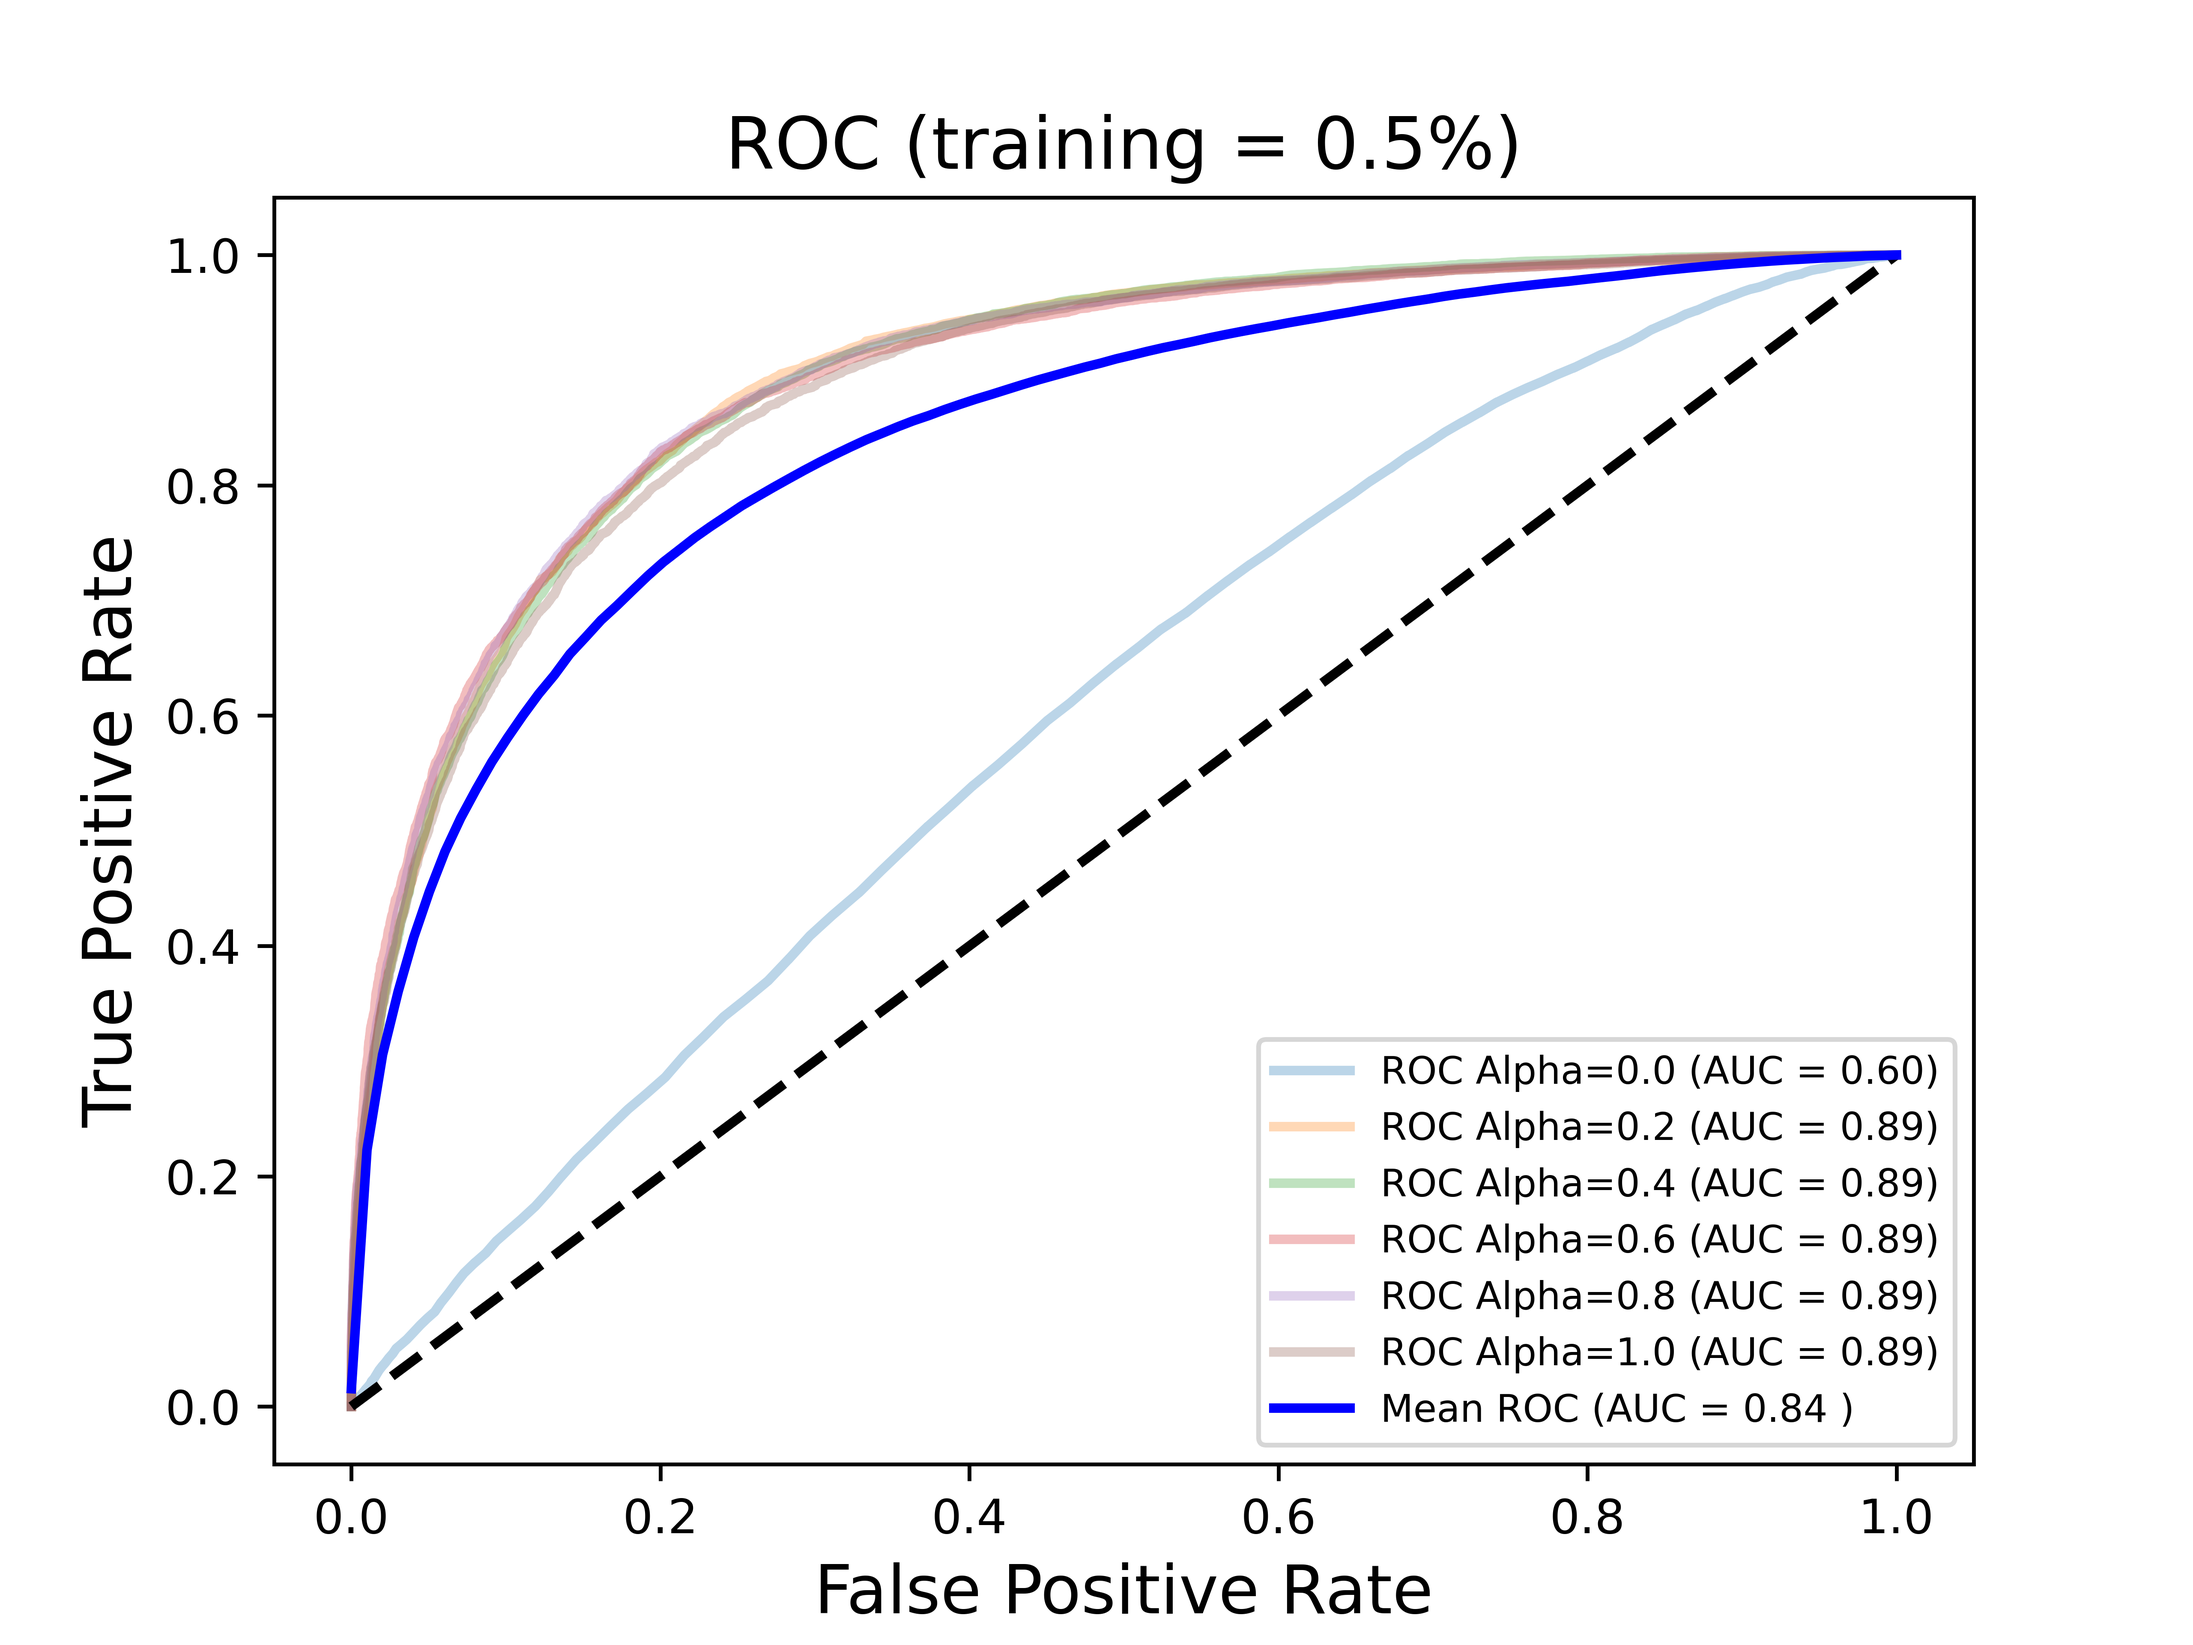
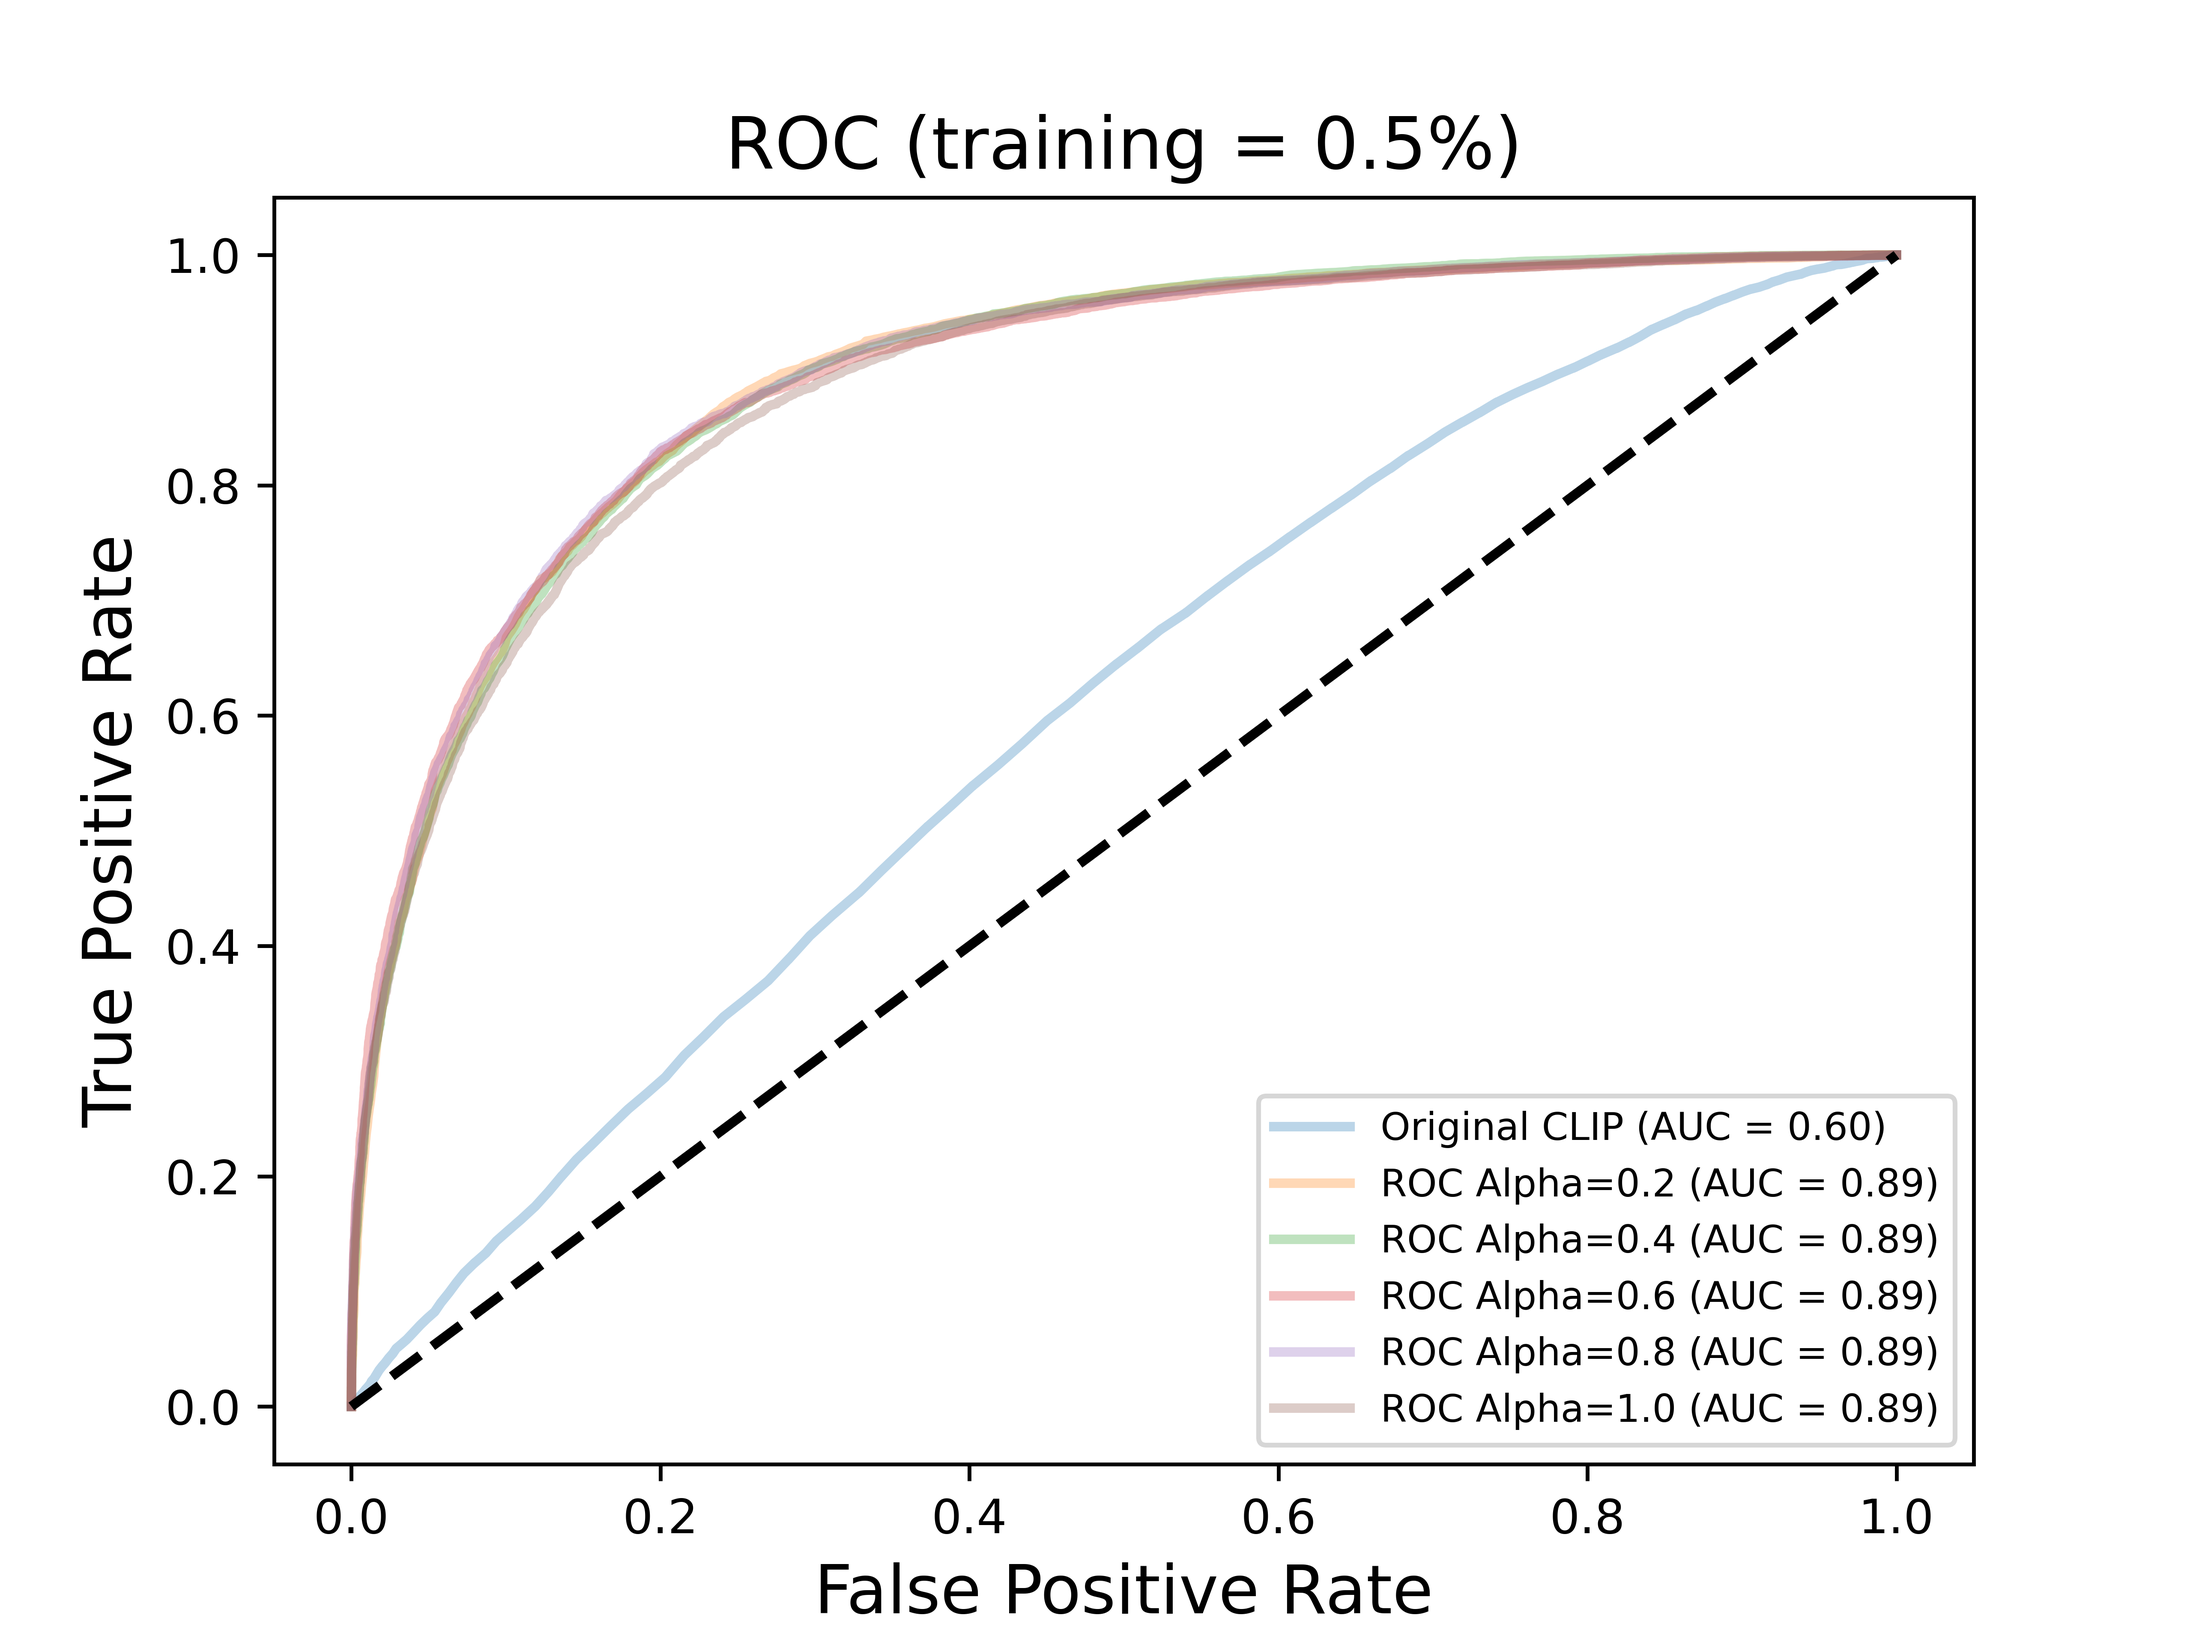
include roc_curve

diff --git a/Pcam/src/script/t_sne.py b/Pcam/src/script/t_sne.py
@@ -1,3 +1,4 @@
+from os.path import exists
 import sys
 sys.path.insert(0, '../AI-Pathology')
 import time
@@ -10,7 +11,57 @@ from torch.utils.data import DataLoader
 from Pcam.src.model.CustomCLIP import CustomCLIP
 from dataset.Pcam import Pcam
 from dataset.MHIST import MHIST
+from sklearn.manifold import TSNE
+import matplotlib
+matplotlib.use('Agg')
+import matplotlib.pyplot as plt
+import numpy as np
+import seaborn as sns
+import pandas as pd
+import random
+from torch.utils.data import DataLoader, SubsetRandomSampler
 
+import json
+
+def cal_train_index(train_dataset, percent_train):
+        """
+        calculate the distrubution of the training set as of percent of training set, and ratio of each class
+        now the ratio is 1:1, which is balanced
+        """
+        random.seed(1)
+
+        # check if the distribution file exists
+        if exists("Pcam/src/model/distribution.json"):
+            print("Distribution file exists")
+            with open("Pcam/src/model/distribution.json", "r") as f:
+                dict_from_json = json.load(f)
+                index_class = {0: dict_from_json["0"], 1: dict_from_json["1"]}
+        
+        # if not, calculate the distribution
+        else:
+            index_class = {0: [], 1: []}
+            # get the index of each class
+            for i in tqdm(range(train_dataset.__len__())):
+                label = train_dataset.__getitem__(i)[1]
+                index_class[label].append(i)
+            with open("Pcam/src/model/distribution.json", "w") as f:
+                json.dump(index_class, f)
+
+        # total number of samples
+        num_samples = int(train_dataset.__len__() * percent_train)
+
+        # percent of samples from each class
+        num_class_0 = int(num_samples * 0.5)
+        num_class_1 = num_samples - num_class_0
+
+        # randomly sample the index
+        train_index_class_0 = random.sample(index_class[0], num_class_0)
+        train_index_class_1 = random.sample(index_class[1], num_class_1)
+
+        # combine the index
+        train_index = train_index_class_0 + train_index_class_1
+        print("Number of training samples: ", len(train_index))
+        return train_index
 
 class config():
     def __init__(self, backbone, CLIP, device, seed, percent, alpha, train_dataset, test_dataset):
@@ -54,9 +105,7 @@ if __name__ == "__main__":
     openai_clip, preprocess = clip.load(backbone, device)
 
     # define dataset
-    mhist = "dataset/DATA/MHIST/"
     DATA_DIR = "dataset/DATA/pcamv1/"
-    test_mhist = mhist + 'test'
     train_path = DATA_DIR + 'camelyonpatch_level_2_split_train'
     valid_path = DATA_DIR + 'camelyonpatch_level_2_split_valid'
     test_path = DATA_DIR + 'camelyonpatch_level_2_split_test'
@@ -64,39 +113,61 @@ if __name__ == "__main__":
     train_dataset = Pcam(path=train_path, transform=preprocess)
     test_dataset = Pcam(path=test_path, transform=preprocess)
     val_dataset = Pcam(path=valid_path, transform=preprocess)
-    pcam_class = ["tumor", "normal"]
-
-    test_dataset_m = MHIST(path=test_mhist, transform=preprocess)
-    mhist_class = ["hyperplastic papilloma", "sessile serrated adenoma"]
-
+    pcam_class = ["Normal", "Tumor"]
 
     # init config
-
+    percent = 0.01
+    alpha = float(sys.argv[1])
     # define model
     sample_image = train_dataset[0][0].unsqueeze(0).to(device)
     image_features = openai_clip.encode_image(sample_image)
     in_features = image_features.size()[1]
 
-    config = config(backbone=backbone, CLIP=openai_clip, seed=None, percent=None,
-                    alpha=1, device=device, train_dataset=train_dataset, test_dataset=test_dataset)
+    config = config(backbone=backbone, CLIP=openai_clip, seed=None, percent=percent,
+                    alpha=alpha, device=device, train_dataset=train_dataset, test_dataset=test_dataset)
 
     CLIP_RFC = CustomCLIP(config=config, in_features=in_features).to(device)
 
-    CLIP_RFC.load_state_dict(torch.load("Pcam/src/model/checkpoints/CustomCLIP:2022-12-17_21-35-50.pt"))
+    # load pretrained model
+    if exists("Pcam/src/model/checkpoints/CustomCLIP:{percent}_{alpha}_{seed}.pt".format(percent=percent, alpha=alpha, seed=1)):
+        print("Pretrained model exists")
+        CLIP_RFC.load_state_dict(torch.load("Pcam/src/model/checkpoints/CustomCLIP:{percent}_{alpha}_{seed}.pt".format(percent=percent, alpha=alpha, seed=1)))
 
-    # init wandb
-    wandb.init(project='CustomCLIP_Validation')
-    pretrained_embedding_table = wandb.Table(columns=['label', 'embedding'])
+    X = []
+    label_list = []
+    train_index = cal_train_index(train_dataset=train_dataset, percent_train=percent)
     # init dataloader
-    for image, label, index in tqdm(DataLoader(train_dataset)):
+    for image, label, index in tqdm(DataLoader(train_dataset, sampler=SubsetRandomSampler(train_index))):
         image = image.to(device)
 
         # get CLIP embedding
         image_features = CLIP_RFC.CLIP.encode_image(image)
         CLIP_embedding = CLIP_RFC.fc(image_features)
 
-        pretrained_embedding_table.add_data(pcam_class[label], CLIP_embedding[0].tolist())
 
-    print("Logging embedding table")
-    wandb.log({'embedding_table': pretrained_embedding_table})
-    wandb.finish()
+        # append embedding to X
+        X.append(CLIP_embedding[0].tolist())
+        label_list.append(pcam_class[int(label.cpu().numpy()[0])])
+    
+    # train t-SNE
+    X = np.array(X)
+    tsne = TSNE(n_components=2, verbose=1, perplexity=30, n_iter=1000)
+    tsne_results = tsne.fit_transform(X)
+
+    df_subset = pd.DataFrame()
+    df_subset['x_embedding'] = tsne_results[:,0]
+    df_subset['y_embedding'] = tsne_results[:,1]
+    df_subset['Class'] = label_list
+
+    plt.figure(figsize=(16,10))
+    sns.set(font_scale=1.7)
+    sns.scatterplot(
+        x="x_embedding", y="y_embedding",
+        hue="Class",
+        palette=sns.color_palette("hls", 2),
+        data=df_subset,
+        legend="full",
+        alpha=0.3,
+        s=100
+    ).set(title="t-SNE visualization training={percent}%, alpha={alpha}".format(percent=str(percent*100), alpha=str(alpha)), xlabel=None, ylabel=None, xticklabels=[], yticklabels=[])
+    plt.savefig('./Pcam/src/figure/t_sne_Pcam_0.1_%0.1f.png' % (alpha), dpi=800)

diff --git a/Pcam/src/model/CustomCLIP.py b/Pcam/src/model/CustomCLIP.py
@@ -10,6 +10,7 @@ import random
 from torch.utils.data import DataLoader, SubsetRandomSampler
 from torch.cuda.amp import autocast
 from os.path import exists
+from time import sleep
 
 
 def print_metrices(y_true, y_pred, y_score, y_class_score):
@@ -167,7 +168,7 @@ class CustomCLIP(nn.Module):
         for _ in range(self.epochs):
             running_score = 0.0
             running_loss = 0.0
-            for images, labels, index in tqdm(DataLoader(self.train_dataset, batch_size=self.batch_size, sampler=SubsetRandomSampler(train_index))):
+            for images, labels, index in tqdm(DataLoader(self.train_dataset, batch_size=1, sampler=SubsetRandomSampler(train_index))):
                 image_input = images.to(self.device)
                 labels = labels.to(self.device)
 
@@ -176,6 +177,9 @@ class CustomCLIP(nn.Module):
                 self.scaler.scale(loss).backward()
                 self.scaler.step(optimizer)
                 self.scaler.update()
+
+                print(logit.shape)
+                sleep(3)
 
                 val, index = torch.max(logit, 1)
                 label = labels.data.cpu().numpy()

diff --git a/Pcam/src/script/generate_roc.py b/Pcam/src/script/generate_roc.py
@@ -133,14 +133,15 @@ if __name__ == "__main__":
         tprs.append(np.interp(mean_fpr, fpr, tpr))
         roc_auc = auc(fpr, tpr)
         aucs.append(roc_auc)
-        plt.plot(fpr, tpr, lw=2, alpha=0.3, label='ROC Alpha=%0.1f (AUC = %0.2f)' % (alpha, roc_auc))
+        if(alpha == 0):
+            plt.plot(fpr, tpr, lw=2, alpha=0.3, label='Original CLIP (AUC = %0.2f)' % (roc_auc))
+        else:
+            plt.plot(fpr, tpr, lw=2, alpha=0.3, label='ROC Alpha=%0.1f (AUC = %0.2f)' % (alpha, roc_auc))
         alpha += 0.2
 
     plt.plot([0, 1], [0, 1], linestyle='--', lw=2, color='black')
     mean_tpr = np.mean(tprs, axis=0)
     mean_auc = auc(mean_fpr, mean_tpr)
-    plt.plot(mean_fpr, mean_tpr, color='blue',
-            label=r'Mean ROC (AUC = %0.2f )' % (mean_auc), lw=2, alpha=1)
 
     plt.xlabel('False Positive Rate', fontsize=14)
     plt.xticks(fontsize=10)

diff --git a/Pcam/src/script/train_CustomCLIP.py b/Pcam/src/script/train_CustomCLIP.py
@@ -1,3 +1,4 @@
+import matplotlib.pyplot as plt
 import sys
 sys.path.insert(0, '../AI-Pathology')
 from dataset.Pcam import Pcam
@@ -86,9 +87,9 @@ if __name__ == "__main__":
     image_features = openai_clip.encode_image(sample_image)
     in_features = image_features.size()[1]
 
-    seed = int(sys.argv[2])
-    percent = float(sys.argv[4])
-    alpha = float(sys.argv[6])
+    seed = 1
+    percent = 0.2
+    alpha = float(sys.argv[1])
     print(percent)
     print(seed)
     print(alpha)
@@ -100,5 +101,7 @@ if __name__ == "__main__":
         # training on dataset
         CLIP_RFC.train()
     
-    # testing on dataset
-    CLIP_RFC.test()
+    # # testing on dataset
+    # CLIP_RFC.test()
+
+    # save image
